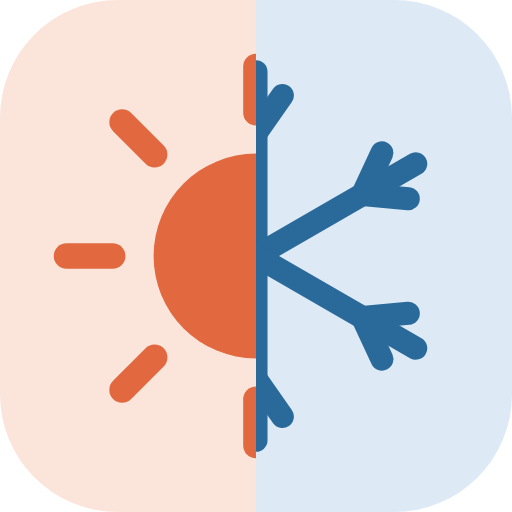
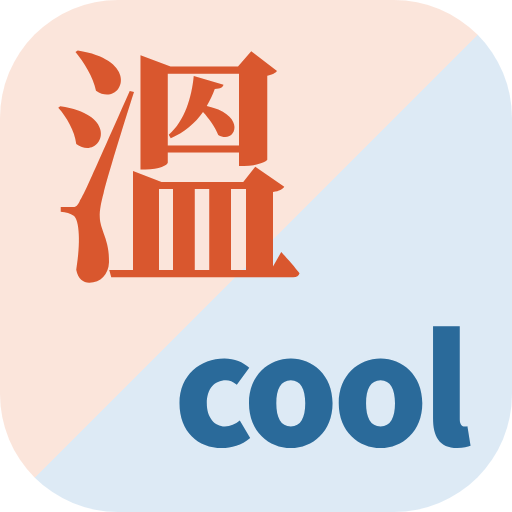
溫&cool 로고, 내부 열람 페이지(공용 비밀번호), 관리 페이지에 열람 비밀번호 변경
Claude-Session: https://claude.ai/code/session_01UEYnwSDD32v8iaDDF1YbQi

diff --git a/staff.html b/staff.html
@@ -1,0 +1,111 @@
+<!doctype html>
+<html lang="ko"><head><meta charset="utf-8"><meta name="viewport" content="width=device-width,initial-scale=1">
+<meta name="robots" content="noindex,nofollow">
+<title>온앤쿨케어 추천 현황</title>
+<link rel="icon" type="image/png" sizes="32x32" href="favicon-32.png">
+<link rel="apple-touch-icon" href="apple-touch-icon.png">
+<link rel="stylesheet" href="common.css">
+<style>
+.wrap{max-width:1180px}
+.stats{display:flex;flex-wrap:wrap;gap:8px;margin:10px 0 14px}
+.st{background:var(--surface);border:1px solid var(--line);border-radius:10px;padding:8px 12px;flex:1 1 110px}
+.st b{display:block;font-size:20px;font-variant-numeric:tabular-nums}
+.st span{font-size:12.5px;color:var(--mute)}
+.st.w b{color:var(--warm)}
+.bar{display:flex;flex-wrap:wrap;gap:8px;align-items:center;margin-bottom:10px}
+.bar select,.bar input{width:auto;font-size:14px;padding:7px 10px}
+.bar .sp{flex:1}
+.sbtn{font:inherit;font-size:14px;border:1px solid var(--line);background:var(--surface);color:var(--ink);border-radius:8px;padding:7px 12px;cursor:pointer}
+.sbtn.pri{background:var(--ink);color:var(--bg);border-color:var(--ink)}
+.sbtn.dan{color:var(--warm);border-color:var(--warm)}
+.tw{overflow-x:auto;background:var(--surface);border:1px solid var(--line);border-radius:12px}
+table{border-collapse:collapse;width:100%;font-size:13.5px;min-width:980px}
+th,td{padding:8px 10px;border-bottom:1px solid var(--line);text-align:left;white-space:nowrap}
+th{background:var(--bg);font-size:12.5px;color:var(--mute);position:sticky;top:0}
+tbody tr{cursor:pointer} tbody tr:hover{background:var(--bg)} tbody tr.sel{background:var(--cool-soft)}
+.pill{display:inline-block;font-size:12px;border-radius:999px;padding:1px 8px;background:var(--bg);border:1px solid var(--line)}
+.t1{background:var(--cool-soft);color:var(--cool);border-color:transparent}.t2{background:var(--amber-soft);color:var(--amber);border-color:transparent}.t3{background:var(--green-soft);color:var(--green);border-color:transparent}.t4{background:var(--warm-soft);color:var(--warm);border-color:transparent}
+.flag{color:var(--warm);font-weight:600}
+.panel{margin-top:14px}
+.dl{display:grid;grid-template-columns:150px minmax(0,1fr);gap:4px 12px;font-size:14px}
+.dl dt{color:var(--mute)} .dl dd{margin:0;white-space:pre-wrap}
+.ed{display:grid;grid-template-columns:repeat(3,minmax(0,1fr));gap:10px;margin-top:14px}
+.ed label{font-size:13px;color:var(--mute);display:flex;flex-direction:column;gap:4px}
+.ed .full{grid-column:1/-1}
+.acts{display:flex;gap:8px;margin-top:12px;flex-wrap:wrap}
+.msg{font-size:13.5px;color:var(--green)}
+@media (max-width:640px){.ed{grid-template-columns:1fr}.dl{grid-template-columns:110px minmax(0,1fr)}}
+</style>
+</head><body><div class="wrap">
+<div class="eyebrow">온앤쿨케어 · 복지관 내부 열람용</div>
+<h1>대상가구 추천 현황</h1>
+<section class="card" id="login" style="max-width:420px">
+  <h2>열람 비밀번호</h2>
+  <p class="hint">추천받은 가구의 개인정보가 있어서 비밀번호를 넣어야 볼 수 있어요. 이 화면은 보기 전용이에요.</p>
+  <div class="q"><input type="password" id="pw" autocomplete="current-password" aria-label="열람 비밀번호"></div>
+  <p class="err" id="lerr" hidden></p>
+  <div style="margin-top:12px"><button class="btn" id="lbtn" type="button">보기</button></div>
+</section>
+<div id="app" hidden>
+  <div class="stats" id="stats"></div>
+  <div class="bar">
+    <select id="fs" aria-label="상태"><option value="">상태 전체</option><option>접수</option><option>검토중</option><option>선정</option><option>보류</option><option>제외</option></select>
+    <select id="ft" aria-label="예상 유형"><option value="">유형 전체</option><option value="1">1유형</option><option value="2">2유형</option><option value="3">3유형</option><option value="?">유형 미확인</option><option value="4">4유형 후보</option></select>
+    <input type="text" id="fq" placeholder="이름·추천자·거주동 검색" aria-label="검색">
+    <span class="sp"></span>
+    <button class="sbtn" id="reload" type="button">새로고침</button>
+    <button class="sbtn" id="csv" type="button">엑셀(CSV) 받기</button>
+    <button class="sbtn" id="out" type="button">닫기</button>
+  </div>
+  <div class="tw"><table><thead><tr><th>번호</th><th>접수</th><th>대상자</th><th>거주동</th><th>가구원</th><th>소득</th><th>예상 유형</th><th>난방</th><th>통장</th><th>긴급</th><th>추천자</th><th>상태</th><th>가구코드</th></tr></thead><tbody id="tb"></tbody></table></div>
+  <p class="hint" id="cnt" style="margin:8px 2px"></p>
+  <section class="card panel" id="detail" hidden></section>
+</div>
+<p class="foot">이 화면의 내용은 외부에 공유하지 말아 주세요. 상태·메모 변경은 담당자 관리 페이지에서 해요.</p>
+</div>
+<script>
+const SB="https://ssqktlqwkhvuxduimsyd.supabase.co",KEY="eyJhbGciOiJIUzI1NiIsInR5cCI6IkpXVCJ9.eyJpc3MiOiJzdXBhYmFzZSIsInJlZiI6InNzcWt0bHF3a2h2dXhkdWltc3lkIiwicm9sZSI6ImFub24iLCJpYXQiOjE3ODcxMDY0ODAsImV4cCI6MjEwMjY4MjQ4MH0.YYxe7jJIUw6nq94hsbV0lwXIJXjCERlYOvQAYvL9l2M";
+const $=s=>document.querySelector(s);
+const esc=s=>String(s??"").replace(/[&<>"']/g,c=>({"&":"&amp;","<":"&lt;",">":"&gt;",'"':"&quot;","'":"&#39;"}[c]));
+let PASS="",rows=[],selId=null;
+const typeOf=r=>r.voucher==="안 받음"?"1":r.voucher==="받았는데 다 씀"?"2":r.voucher==="받는 중"?"3":"?";
+const is4=r=>["기름(등유) 보일러","LPG","연탄"].includes(r.heating);
+const tpill=r=>{const t=typeOf(r);return (t==="?"?'<span class="pill">미확인</span>':`<span class="pill t${t}">${t}유형</span>`)+(is4(r)?' <span class="pill t4">4유형 후보</span>':"")};
+const d=s=>{const x=new Date(s);return `${x.getMonth()+1}/${x.getDate()} ${String(x.getHours()).padStart(2,"0")}:${String(x.getMinutes()).padStart(2,"0")}`};
+async function fetchList(p){const r=await fetch(SB+"/rest/v1/rpc/oncool_staff_list",{method:"POST",headers:{"apikey":KEY,"Authorization":"Bearer "+KEY,"Content-Type":"application/json"},body:JSON.stringify({p_pass:p})});if(!r.ok)throw new Error("HTTP "+r.status);return r.json()}
+async function load(p){const res=await fetchList(p);
+  if(!res.ok){$("#lerr").textContent=res.reason==="locked"?"틀린 비밀번호가 많아 잠시 잠겼어요. 15분 뒤에 다시 해 주세요.":"비밀번호가 맞지 않아요.";$("#lerr").hidden=false;return false}
+  PASS=p;rows=res.rows||[];renderStats(res.stats);render();$("#login").hidden=true;$("#app").hidden=false;return true}
+$("#lbtn").onclick=async()=>{$("#lerr").hidden=true;$("#lbtn").disabled=true;try{const ok=await load($("#pw").value);if(ok)$("#pw").value=""}catch(e){$("#lerr").textContent="연결이 안 돼요. 잠시 뒤에 다시 해 주세요.";$("#lerr").hidden=false}finally{$("#lbtn").disabled=false}};
+$("#pw").addEventListener("keydown",e=>{if(e.key==="Enter"&&!e.isComposing)$("#lbtn").click()});
+$("#reload").onclick=()=>load(PASS).catch(()=>{});
+$("#out").onclick=()=>{PASS="";rows=[];$("#tb").innerHTML="";$("#detail").hidden=true;$("#app").hidden=true;$("#login").hidden=false};
+function renderStats(s){if(!s)return;
+  const it=[["추천",s.total],["1유형",s.type1],["2유형",s.type2],["3유형",s.type3],["유형 미확인",s.type_unknown,1],["4유형 후보",s.type4_candidates],["통장 없음·압류",s.no_account,1],["긴급 ‘상’",s.urgent,1],["선정",s.selected],["추천한 사람",s.workers]];
+  $("#stats").innerHTML=it.map(([l,v,w])=>`<div class="st${w&&v?" w":""}"><b>${v??0}</b><span>${l}</span></div>`).join("");
+}
+function filtered(){const s=$("#fs").value,t=$("#ft").value,q=$("#fq").value.trim();
+  return rows.filter(r=>(!s||r.status===s)&&(!t||(t==="4"?is4(r):typeOf(r)===t))&&(!q||[r.elder_name,r.worker_name,r.dong].some(x=>(x||"").includes(q))))}
+function render(){const f=filtered();
+  $("#tb").innerHTML=f.map(r=>`<tr data-id="${r.id}" class="${r.id===selId?"sel":""}" tabindex="0"><td>${r.receipt_no}</td><td>${d(r.created_at)}</td><td><b>${esc(r.elder_name)}</b></td><td>${esc(r.dong)}</td><td>${r.household_size?r.household_size+"명":""}</td><td>${esc(r.income)}</td><td>${tpill(r)}</td><td>${esc(r.heating)}</td><td class="${["없음","압류 우려"].includes(r.account)?"flag":""}">${esc(r.account)}</td><td class="${r.urgency==="상"?"flag":""}">${esc(r.urgency)}</td><td>${esc(r.worker_name)}</td><td>${esc(r.status)}</td><td>${esc(r.household_code)}</td></tr>`).join("")||'<tr><td colspan="13" style="color:var(--mute)">아직 추천이 없어요.</td></tr>';
+  $("#cnt").textContent=`${f.length}건 표시 · 전체 ${rows.length}건`;
+}
+["fs","ft"].forEach(i=>$("#"+i).onchange=render);$("#fq").oninput=render;$("#reload").onclick=load;
+$("#tb").addEventListener("click",e=>{const tr=e.target.closest("tr[data-id]");if(tr)openD(tr.dataset.id)});
+$("#tb").addEventListener("keydown",e=>{if(e.key==="Enter"){const tr=e.target.closest("tr[data-id]");if(tr)openD(tr.dataset.id)}});
+const F=[["접수 번호","receipt_no"],["접수 일시","created_at",d],["추천자","worker_name"],["추천자 소속","worker_org"],["대상자","elder_name"],["생년월일","birth"],["성별","gender"],["연락처","phone"],["거주동","dong"],["주소","address"],["세대주 본인","is_head"],["세대주 성함","head_name"],["세대주 생년월일","head_birth"],["가구원 수","household_size"],["실제 동거","live_with"],["소득 구분","income"],["수급 종류","recipient_kinds",a=>(a||[]).join(", ")],["에너지바우처","voucher"],["난방 방식","heating"],["본인 명의 통장","account"],["고지서 사진","bill_photo"],["집","housing_tenure"],["주거 위험","housing_risk",a=>(a||[]).join(", ")],["난방기구 고장","heater_broken"],["요금 체납","arrears",a=>(a||[]).join(", ")],["긴급도","urgency"],["추천 사유","reason"],["건강·생활 위험","risk_note"],["다른 지원","other_support"]];
+function openD(id){selId=id;render();const r=rows.find(x=>x.id===id);if(!r)return;
+  $("#detail").hidden=false;
+  $("#detail").innerHTML=`<h2>${esc(r.elder_name)} <span style="font-weight:400;color:var(--mute)">· ${tpill(r)}</span></h2>
+  <dl class="dl">${F.map(([l,k,fn])=>`<dt>${l}</dt><dd>${esc(fn?fn(r[k]):r[k])}</dd>`).join("")}<dt>상태</dt><dd>${esc(r.status)}</dd><dt>가구코드</dt><dd>${esc(r.household_code)}</dd><dt>담당자 메모</dt><dd>${esc(r.staff_memo)}</dd></dl>
+  <div class="acts"><button class="sbtn" id="e_close" type="button">닫기</button></div>`;
+  $("#e_close").onclick=()=>{selId=null;$("#detail").hidden=true;render()};
+  $("#detail").scrollIntoView({behavior:"smooth",block:"start"});
+}
+$("#csv").onclick=()=>{const cols=[...F.map(f=>f[0]),"예상 유형","4유형 후보","상태","가구코드","메모"];
+  const q=v=>`"${String(v??"").replace(/"/g,'""')}"`;
+  const lines=[cols.map(q).join(",")].concat(filtered().map(r=>[...F.map(([l,k,fn])=>fn?fn(r[k]):r[k]),typeOf(r)==="?"?"미확인":typeOf(r)+"유형",is4(r)?"예":"",r.status,r.household_code,r.staff_memo].map(q).join(",")));
+  const b=new Blob([""+lines.join("\r\n")],{type:"text/csv;charset=utf-8"});const a=document.createElement("a");a.href=URL.createObjectURL(b);a.download=`온앤쿨_추천명단_${new Date().toISOString().slice(0,10)}.csv`;a.click();URL.revokeObjectURL(a.href)};
+$("#reload").onclick=()=>load(PASS).catch(()=>{});
+</script>
+</body></html>

diff --git a/admin.html b/admin.html
@@ -66,6 +66,9 @@ tbody tr{cursor:pointer} tbody tr:hover{background:var(--bg)} tbody tr.sel{backg
     <textarea id="roster" placeholder="홍길동, 010-1234-5678, 노인맞춤돌봄"></textarea>
     <div class="acts"><button class="sbtn pri" id="rsave" type="button">명단 추가</button><span class="msg" id="rmsg"></span></div>
     <div class="tw" style="margin-top:12px"><table style="min-width:620px"><thead><tr><th>이름</th><th>연락처</th><th>소속</th><th>가입</th><th>비밀번호</th><th>상태</th><th></th></tr></thead><tbody id="wtb"></tbody></table></div>
+    <h2 style="margin-top:20px">열람 비밀번호 (복지관 내부 공유용)</h2>
+    <p class="hint">로드맵의 ‘추천 현황’과 <a href="staff.html" target="_blank" rel="noopener">열람 페이지</a>에서 명단을 볼 때 쓰는 공용 비밀번호예요. 보기만 할 수 있어요. 6자리 이상.</p>
+    <div class="acts"><input type="text" id="spw" maxlength="30" style="max-width:240px" aria-label="새 열람 비밀번호"><button class="sbtn pri" id="spsave" type="button">바꾸기</button><span class="msg" id="spmsg"></span></div>
     <h2 style="margin-top:20px">기관 가입 코드</h2>
     <p class="hint">명단에 없는 기관 담당자는 이 코드로 직접 가입해요. 기관마다 다른 코드를 주면 소속이 자동으로 붙어요. 코드는 저장 후 다시 볼 수 없으니 따로 적어 두세요.</p>
     <div class="row2"><div class="q"><label for="oname">기관 이름</label><input type="text" id="oname" maxlength="40" placeholder="예: 안양5동 행정복지센터"></div><div class="q"><label for="ocode">가입 코드 (4자리 이상)</label><input type="text" id="ocode" maxlength="20"></div></div>
@@ -161,6 +164,8 @@ $("#wtb").addEventListener("click",async e=>{const r=e.target.closest("[data-wr]
   if(r){await sb.from("oncool_workers").update({pin_hash:null,fails:0,locked_until:null}).eq("id",r.dataset.wr);loadW()}
   if(a){const x=W.find(w=>w.id===a.dataset.wa);await sb.from("oncool_workers").update({active:!x.active}).eq("id",x.id);loadW()}});
 $("#otb").addEventListener("click",async e=>{const a=e.target.closest("[data-oa]");if(!a)return;const x=O.find(o=>o.id===a.dataset.oa);await sb.from("oncool_orgs").update({active:!x.active}).eq("id",x.id);loadW()});
+$("#spsave").onclick=async()=>{const v=$("#spw").value.trim();if(v.length<6){$("#spmsg").textContent="6자리 이상으로 넣어 주세요";return}
+  const {error}=await sb.rpc("oncool_admin_set_staff_pass",{p_new:v});$("#spmsg").textContent=error?"바꾸지 못했어요":"바꿨어요. 함께 보는 분들께 새 비밀번호를 알려 주세요.";if(!error)$("#spw").value=""};
 $("#osave").onclick=async()=>{const n=$("#oname").value.trim(),c=$("#ocode").value.trim();if(!n||c.length<4){$("#omsg").textContent="기관 이름과 4자리 이상 코드를 넣어 주세요";return}
   const {error}=await sb.rpc("oncool_admin_set_org",{p_name:n,p_code:c});$("#omsg").textContent=error?"저장하지 못했어요":`저장했어요. ${n}에 코드 ${c}를 알려 주세요.`;if(!error){$("#ocode").value="";loadW()}};
 boot();

diff --git a/index.html b/index.html
@@ -7,7 +7,7 @@
 <meta property="og:title" content="온앤쿨케어 대상가구 추천">
 <meta property="og:description" content="안양시만안종합사회복지관 · 겨울 난방비가 부담되는 이웃을 추천해 주세요">
 <meta property="og:url" content="https://vinnieheo.github.io/oncool-care/">
-<meta property="og:image" content="https://vinnieheo.github.io/oncool-care/og.png">
+<meta property="og:image" content="https://vinnieheo.github.io/oncool-care/og.png?v=2">
 <meta property="og:image:width" content="1200">
 <meta property="og:image:height" content="630">
 <meta name="twitter:card" content="summary_large_image">
@@ -18,7 +18,7 @@
 <link rel="stylesheet" href="common.css">
 </head><body><div class="wrap">
 <div class="eyebrow">안양시만안종합사회복지관 · 지역사회 맞춤형 에너지 돌봄 사업</div>
-<h1 style="display:flex;align-items:center;gap:10px"><img src="mark.svg" alt="" width="40" height="40" style="border-radius:10px"><span><span class="w">온(溫)</span> 앤 <span class="c">쿨(cool)</span> 케어</span></h1>
+<h1 style="display:flex;align-items:center;gap:10px"><img src="logo-96.png" alt="" width="44" height="44" style="border-radius:11px"><span><span class="w">온(溫)</span> 앤 <span class="c">쿨(cool)</span> 케어</span></h1>
 
 <section id="v-menu">
   <p class="lead" style="margin-top:8px">주변에 겨울 난방비가 부담되는 이웃이 있으면 추천해 주세요. 아래 기준에 해당하는 가구라면 누구나 추천할 수 있어요.</p>
